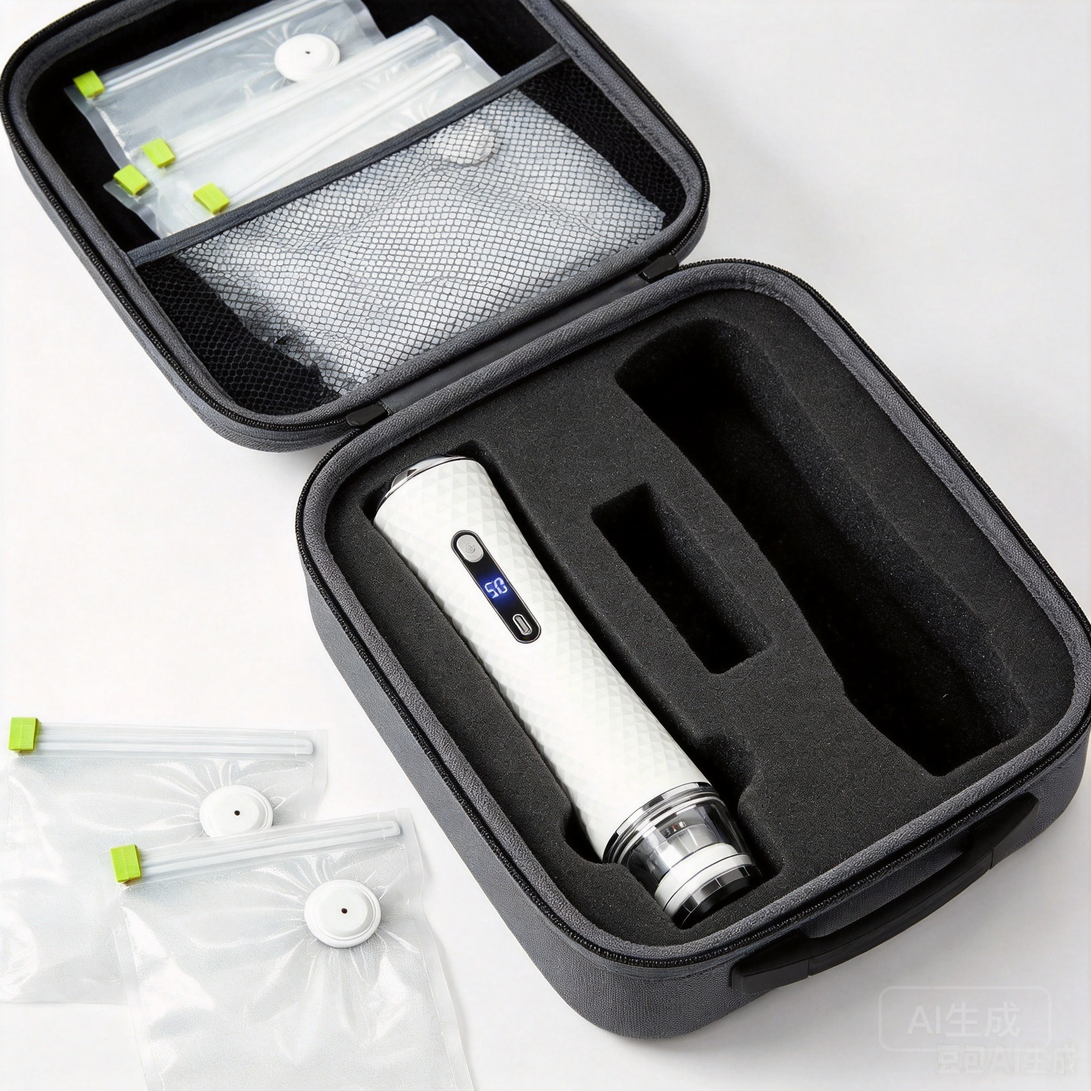
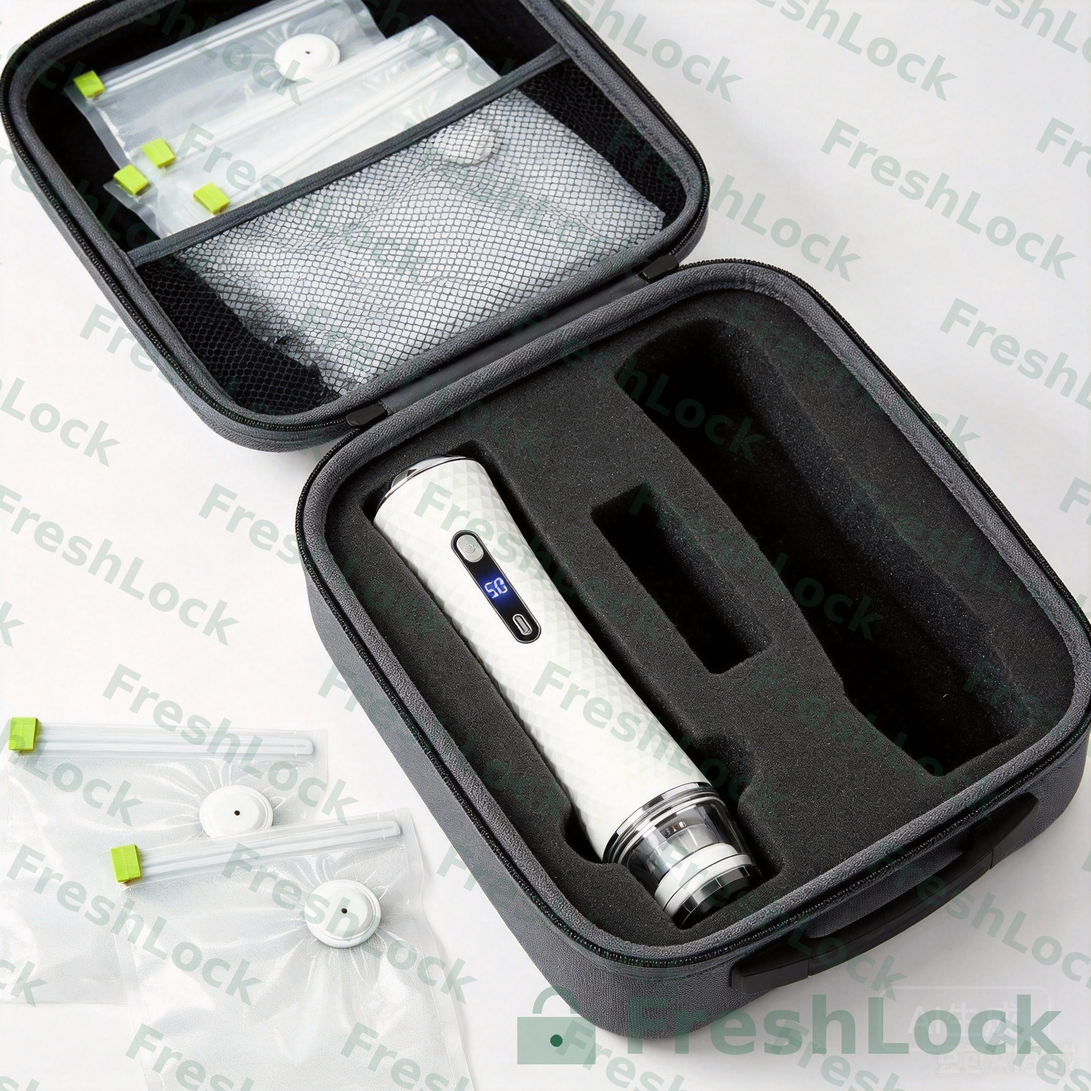
V1.3.2: 水印V4双站同步+Gallery可点击切换+object-contain+Starter Kit补细节图+sealer-use假图删除
- 产品图加水印V4(Python Pillow): sealer白底深绿,袋透明底白字,-28度斜向平铺+右下角logo
- 新建components/ProductGallery.tsx组件: 可点击缩略图切换主图+object-contain不裁切
- Starter Kit gallery补全: kit/travel-kit/main/angled + 5张detail + 3张袋图
- Pro版gallery补sealer-detail-tube/drain
- 删除AI假图sealer-use.jpg
- data.ts补全detail图引用

diff --git a/app/products/[slug]/page.tsx b/app/products/[slug]/page.tsx
@@ -5,6 +5,7 @@ import { products, reviews, FREE_SHIPPING_THRESHOLD } from '@/lib/data';
 import { generateProductSchema, generateBreadcrumbSchema, SITE_URL } from '@/lib/schema';
 import AddToCartClient from './AddToCartClient';
 import FrequentlyBoughtTogether from '@/components/FrequentlyBoughtTogether';
+import ProductGallery from '@/components/ProductGallery';
 import Image from 'next/image';
 
 type Params = { slug: string };
@@ -260,30 +261,7 @@ export default function ProductDetailPage({ params }: { params: Params }) {
         <article className="grid md:grid-cols-2 gap-12" itemScope itemType="https://schema.org/Product">
           {/* Images */}
           <section>
-            <div className="rounded-xl overflow-hidden bg-white shadow mb-4">
-              <Image src={product.images[0] || product.image}
-                alt={`${product.name} — ${product.shortDescription}`}
-                className="w-full aspect-square object-cover"
-                itemProp="image"
-                width={600}
-                height={600}
-                priority
-                sizes="(max-width: 768px) 100vw, 600px" />
-            </div>
-            {product.images.length > 1 && (
-              <div className="flex gap-3" role="list">
-                {product.images.slice(1).map((img, i) => (
-                  <div key={i} role="listitem">
-                    <Image src={img}
-                      alt={`${product.name} — その他の画像${i + 2}枚目`}
-                      className="w-20 h-20 rounded-lg object-cover border-2 border-transparent"
-                      loading="lazy"
-                      width={80}
-                      height={80} />
-                  </div>
-                ))}
-              </div>
-            )}
+            <ProductGallery images={product.images.length > 0 ? product.images : [product.image]} name={product.name} shortDescription={product.shortDescription} />
           </section>
 
           {/* Info */}

diff --git a/components/ProductGallery.tsx b/components/ProductGallery.tsx
@@ -1,0 +1,61 @@
+'use client';
+
+import { useState } from 'react';
+import Image from 'next/image';
+
+export default function ProductGallery({
+  images,
+  name,
+  shortDescription,
+}: {
+  images: string[];
+  name: string;
+  shortDescription: string;
+}) {
+  const allImages = images && images.length > 0 ? images : [];
+  const [active, setActive] = useState(0);
+  if (allImages.length === 0) return null;
+
+  return (
+    <section>
+      <div className="rounded-xl overflow-hidden bg-stone-50 shadow mb-4 relative flex items-center justify-center" style={{ minHeight: 'min(80vw, 560px)' }}>
+        <Image
+          src={allImages[active]}
+          alt={`${name} — ${shortDescription}`}
+          className="max-w-full max-h-[80vh] w-auto h-auto object-contain"
+          itemProp="image"
+          width={1200}
+          height={1600}
+          priority
+          sizes="(max-width: 768px) 100vw, 600px"
+        />
+      </div>
+      {allImages.length > 1 && (
+        <div className="flex gap-3 flex-wrap" role="list" aria-label="商品画像">
+          {allImages.map((img, i) => (
+            <button
+              key={i}
+              type="button"
+              role="listitem"
+              onClick={() => setActive(i)}
+              aria-label={`画像 ${i + 1} / ${allImages.length} を表示`}
+              aria-pressed={active === i}
+              className={`rounded-lg overflow-hidden border-2 transition ${
+                active === i ? 'border-accent ring-2 ring-accent/30' : 'border-transparent hover:border-gray-300'
+              }`}
+            >
+              <Image
+                src={img}
+                alt={`${name} — 画像${i + 1}`}
+                className="w-20 h-20 object-cover"
+                loading="lazy"
+                width={80}
+                height={80}
+              />
+            </button>
+          ))}
+        </div>
+      )}
+    </section>
+  );
+}

diff --git a/lib/data.ts b/lib/data.ts
@@ -18,8 +18,13 @@ export const products: Product[] = [
     image: '/images/products/sealer-main.jpg',
     images: [
       '/images/products/sealer-main.jpg',
-      '/images/products/sealer-use.jpg',
+      '/images/products/sealer-angled.jpg',
       '/images/products/sealer-kit.jpg',
+      '/images/products/sealer-detail-suction.jpg',
+      '/images/products/sealer-detail-usbc.jpg',
+      '/images/products/sealer-detail-cup.jpg',
+      '/images/products/sealer-detail-tube.jpg',
+      '/images/products/sealer-drain.jpg',
     ],
     features: [
       '-60kPa 吸引力で冷凍焼けをしっかり防止',
@@ -58,7 +63,17 @@ export const products: Product[] = [
     image: '/images/products/sealer-kit.jpg',
     images: [
       '/images/products/sealer-kit.jpg',
-      '/images/products/bags-1.jpg',
+      '/images/products/travel-kit.jpg',
+      '/images/products/sealer-main.jpg',
+      '/images/products/sealer-angled.jpg',
+      '/images/products/sealer-detail-suction.jpg',
+      '/images/products/sealer-detail-usbc.jpg',
+      '/images/products/sealer-detail-cup.jpg',
+      '/images/products/sealer-detail-tube.jpg',
+      '/images/products/sealer-drain.jpg',
+      '/images/products/bags-small.jpg',
+      '/images/products/bags-med.jpg',
+      '/images/products/bags-lrg.jpg',
     ],
     features: [
       'FreshLock Pro ハンディ真空ポンプ本体',
